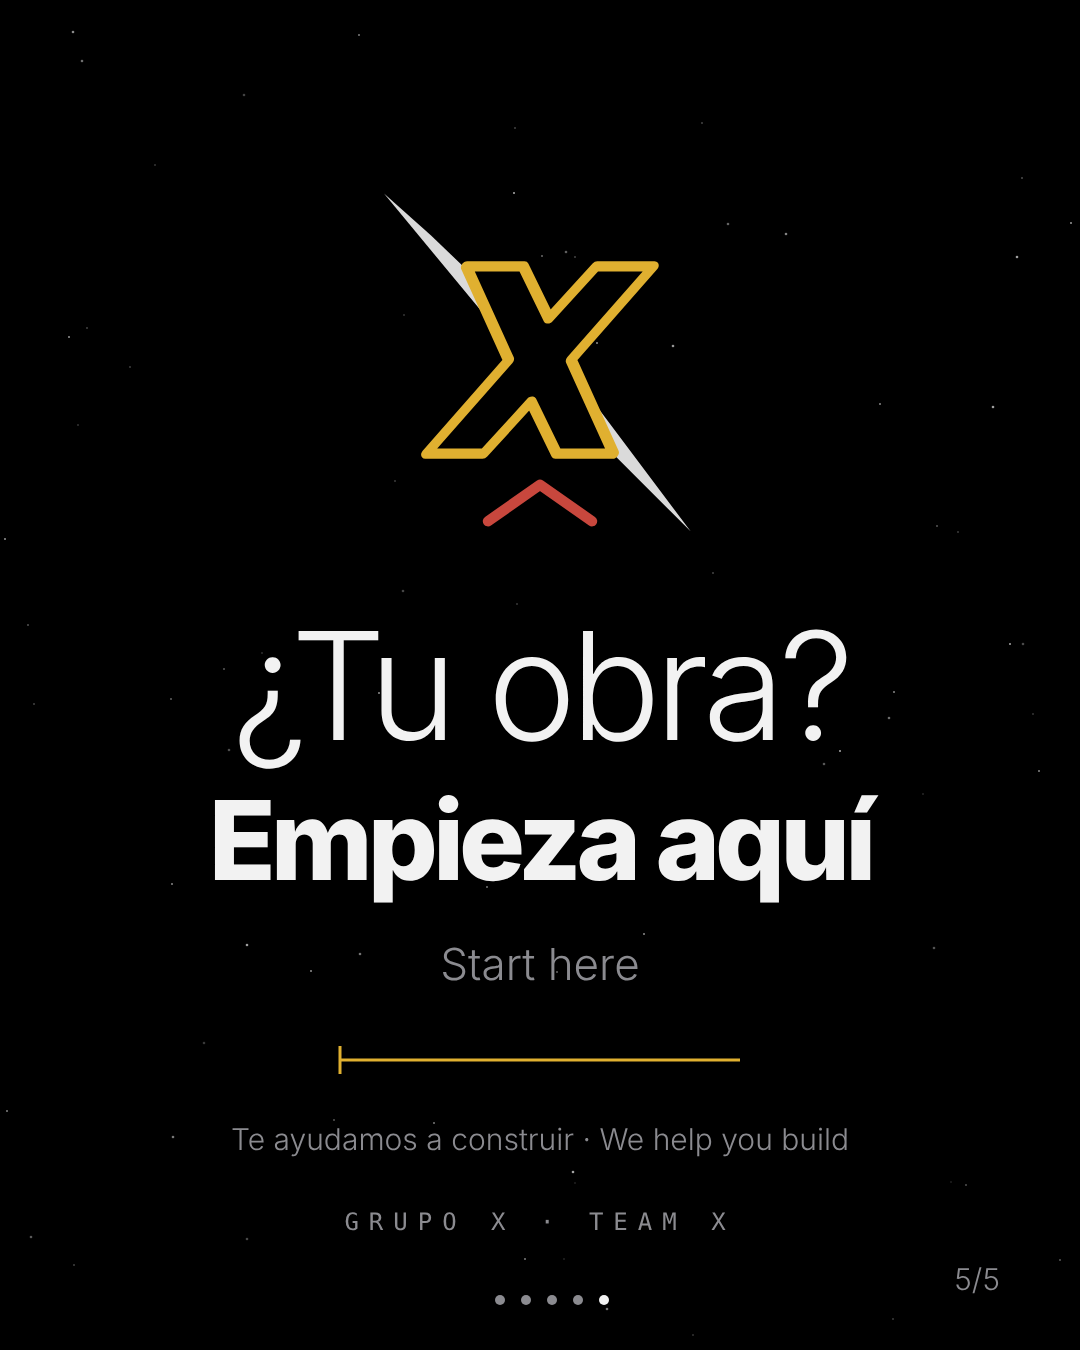
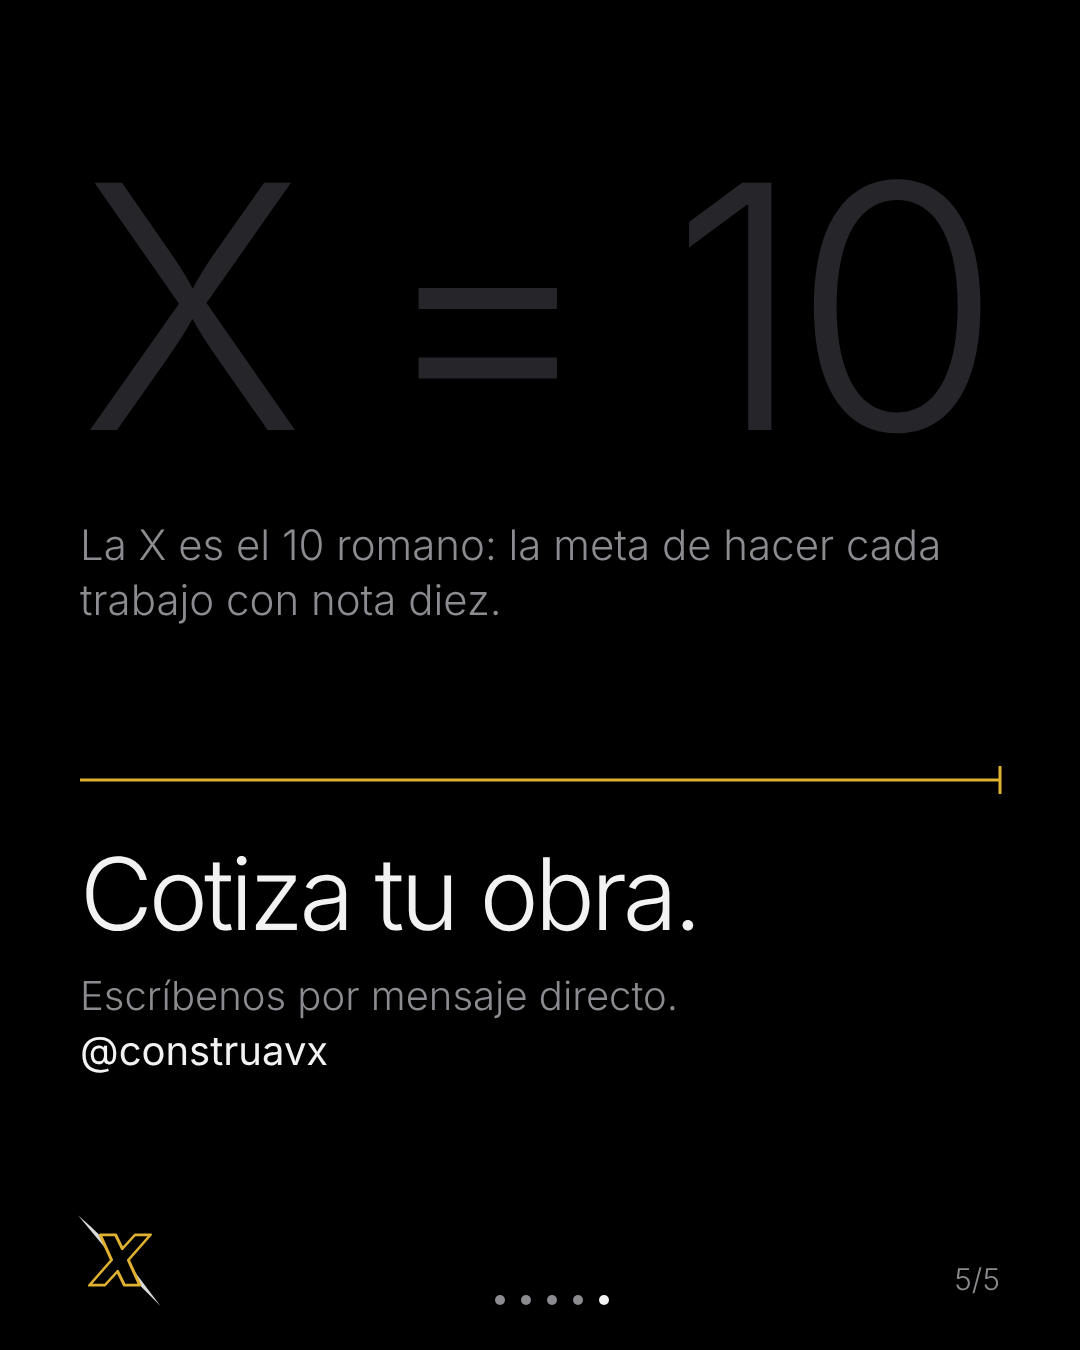
Adapt social assets to Grupo X pattern; ProduAVX is audiovisual; add per-network profile info
Claude-Session: https://claude.ai/code/session_01SyEUPzv47j4v1ivZ7w3zNj

diff --git a/branding/redes.md b/branding/redes.md
@@ -1,0 +1,59 @@
+# Perfiles en redes — ConstruAVX y ProduAVX
+
+Basado en el perfil de Instagram de Grupo X (`@grupoxteamx`):
+nombre **"Grupo X | Team X"**, bio **"Construcción | Producción AV / Santa Tecla, El Salvador."** y enlace a `grupoxteamx.netlify.app`.
+
+> Los usuarios `@construavx` y `@produavx` son los que usé en las piezas. Si los perfiles que creaste tienen otro usuario, dímelo y regenero las imágenes.
+
+## Archivos listos (carpeta `redes/` de cada marca)
+
+| Archivo | Medidas | Dónde |
+|---|---|---|
+| `foto-perfil.png` | 1080×1080 | Foto de perfil en Instagram, TikTok y Facebook (las tres la recortan en círculo; la X queda dentro de la zona segura) |
+| `facebook-portada.png` | 1640×624 | Portada de Facebook; el contenido importante está en el centro (visible en móvil y escritorio) |
+| `ig-presentacion-1…5.png` | 1080×1350 (4:5) | Primer carrusel de presentación de Instagram: 1 "Hola, somos…", 2–4 mensajes con espacio para foto real, 5 "X = 10 / Cotiza…" |
+| `tiktok-portada-video.png` | 1080×1920 | Portada del primer video de TikTok / reel / historia |
+
+Las versiones `.svg` están junto a cada PNG para editar textos.
+
+## Instagram
+
+| | ConstruAVX | ProduAVX |
+|---|---|---|
+| Usuario | `@construavx` | `@produavx` |
+| Nombre | ConstruAVX \| Team X | ProduAVX \| Team X |
+| Bio | Construcción y asesoría<br>Santa Tecla, El Salvador.<br>Parte de @grupoxteamx | Producción audiovisual<br>Santa Tecla, El Salvador.<br>Parte de @grupoxteamx |
+| Enlace | `grupoxteamx.netlify.app` (o el enlace propio) | igual |
+| Categoría | Constructora | Estudio de producción de video / foto |
+
+**Primera publicación:** carrusel `ig-presentacion-1…5`. Texto sugerido:
+- ConstruAVX: "Hola, somos ConstruAVX. Construcción y asesoría en El Salvador, parte de Grupo X. Te ayudamos a construir. 🏗 / We help you build. #ConstruAVX #GrupoX #TeamX #construccion #elsalvador"
+- ProduAVX: "Hola, somos ProduAVX. Producción audiovisual en El Salvador, parte de Grupo X. Te ayudamos a producir. 🎬 / We help you produce. #ProduAVX #GrupoX #TeamX #produccionaudiovisual #elsalvador"
+
+En las diapositivas 2–4, reemplaza el recuadro "ESPACIO PARA FOTO REAL" por una foto real (como hace Grupo X con sus obras).
+
+## TikTok
+
+| | ConstruAVX | ProduAVX |
+|---|---|---|
+| Usuario | `@construavx` | `@produavx` |
+| Nombre | ConstruAVX \| Team X | ProduAVX \| Team X |
+| Bio (≤80) | Construcción y asesoría · Santa Tecla, SV · Parte de Grupo X | Producción audiovisual · Santa Tecla, SV · Parte de Grupo X |
+
+Primer video: usa `tiktok-portada-video.png` como portada y el texto "Hola, somos ConstruAVX / ProduAVX".
+
+## Facebook
+
+| | ConstruAVX | ProduAVX |
+|---|---|---|
+| Nombre de página | ConstruAVX \| Team X | ProduAVX \| Team X |
+| Categoría | Empresa de construcción | Productora de video / Servicio audiovisual |
+| Presentación (≤101) | Construcción y asesoría en Santa Tecla, El Salvador. Parte de Grupo X \| Team X. | Producción audiovisual en Santa Tecla, El Salvador. Parte de Grupo X \| Team X. |
+| Sobre nosotros | ConstruAVX es la rama de construcción y asesoría de Grupo X. Te ayudamos a construir: planos, materiales y obra con control. / We help you build. | ProduAVX es la rama audiovisual de Grupo X. Te ayudamos a producir: video y foto para tu marca, obra o proyecto. / We help you produce. |
+| Botón | Enviar mensaje | Enviar mensaje |
+
+## Coherencia con Grupo X
+
+- Mismo patrón: fondo negro puro, titular fino, línea de acento (amarillo en ConstruAVX, azul en ProduAVX) y firma `GRUPO X · TEAM X`.
+- El cierre de cada carrusel repite la idea "X = 10" de Grupo X.
+- Cada perfil menciona a `@grupoxteamx` en la bio, y Grupo X puede etiquetar a las dos ramas.

diff --git a/branding/perfiles.md b/branding/perfiles.md
@@ -51,20 +51,17 @@
 
 ## ProduAVX
 
+> Corrección: en el perfil de Grupo X la bio dice "Construcción | Producción AV", así que ProduAVX es **producción audiovisual**.
+
 - **Nombre:** ProduAVX
-- **Usuario sugerido:** `@produavx`
-- **Categoría:** Fabricación / Producción / Servicios industriales
+- **Categoría:** Producción audiovisual / Video y foto
 - **Frase:** Te ayudamos a producir. · We help you produce.
-- **Bio corta (≤150):**
-  Te ayudamos a producir. ⚙ [Qué producimos]. We help you produce. Parte de @grupox [usuario real] · [Ciudad]
-- **Descripción larga:**
-  ProduAVX convierte tu idea en producto. [Fabricación a medida y por volumen de …] con control de calidad y entregas puntuales. Somos parte de Grupo X.
-- **Productos / servicios:** `[producto 1]` · `[producto 2]` · `[producto 3]`
-- **Llamado a la acción:** "¿Tu proyecto? Empieza aquí / Start here" → `[enlace / WhatsApp]`
-- **Contacto:** `[correo]` · `[teléfono]` · `[planta / dirección]` · horario `[…]`
-- **Hashtags:** #ProduAVX #GrupoX #TeamX #Producción #Manufactura
-- **Contenido sugerido:** proceso de fabricación, nuevos productos, control de calidad, entregas
-- **Foto de perfil:** `produavx/avatar.svg`
+- **Descripción:** ProduAVX es la rama audiovisual de Grupo X: video, foto y contenido para marcas, obras y proyectos. Convertimos tu idea en guion, imagen y sonido, listo para publicar.
+- **Servicios:** `[video corporativo · reels · foto de proyecto · cobertura de obra · edición]` (ajustar a lo que ofrezcan)
+- **Llamado a la acción:** "Cotiza tu producción. Escríbenos por mensaje directo."
+- **Hashtags:** #ProduAVX #GrupoX #TeamX #ProducciónAudiovisual #ElSalvador
+- **Contenido sugerido:** detrás de cámaras, antes/después de piezas, reels de obras de Grupo X, "idea a pantalla"
+- **Foto de perfil:** `produavx/redes/foto-perfil.png`
 
 ---
 
@@ -73,7 +70,7 @@
 Usan el mismo esquema que las piezas de Grupo X: "X" arriba, titular gigante, frase ES, traducción EN y firma.
 Ideas de titulares en el estilo de la marca madre:
 - ConstruAVX: **"¿Tu obra?"** → "Empieza aquí / Start here" · **"PLANO · OBRA · ENTREGA"** → "Te ayudamos a llegar"
-- ProduAVX: **"¿Tu producto?"** → "Empieza aquí / Start here" · **"IDEA · PROTOTIPO · PRODUCCIÓN"** → "Te ayudamos a llegar"
+- ProduAVX: **"¿Tu video?"** → "Empieza aquí / Start here" · **"IDEA · GUION · PANTALLA"** → "Te ayudamos a llegar"
 
 ## Coherencia entre perfiles
 
